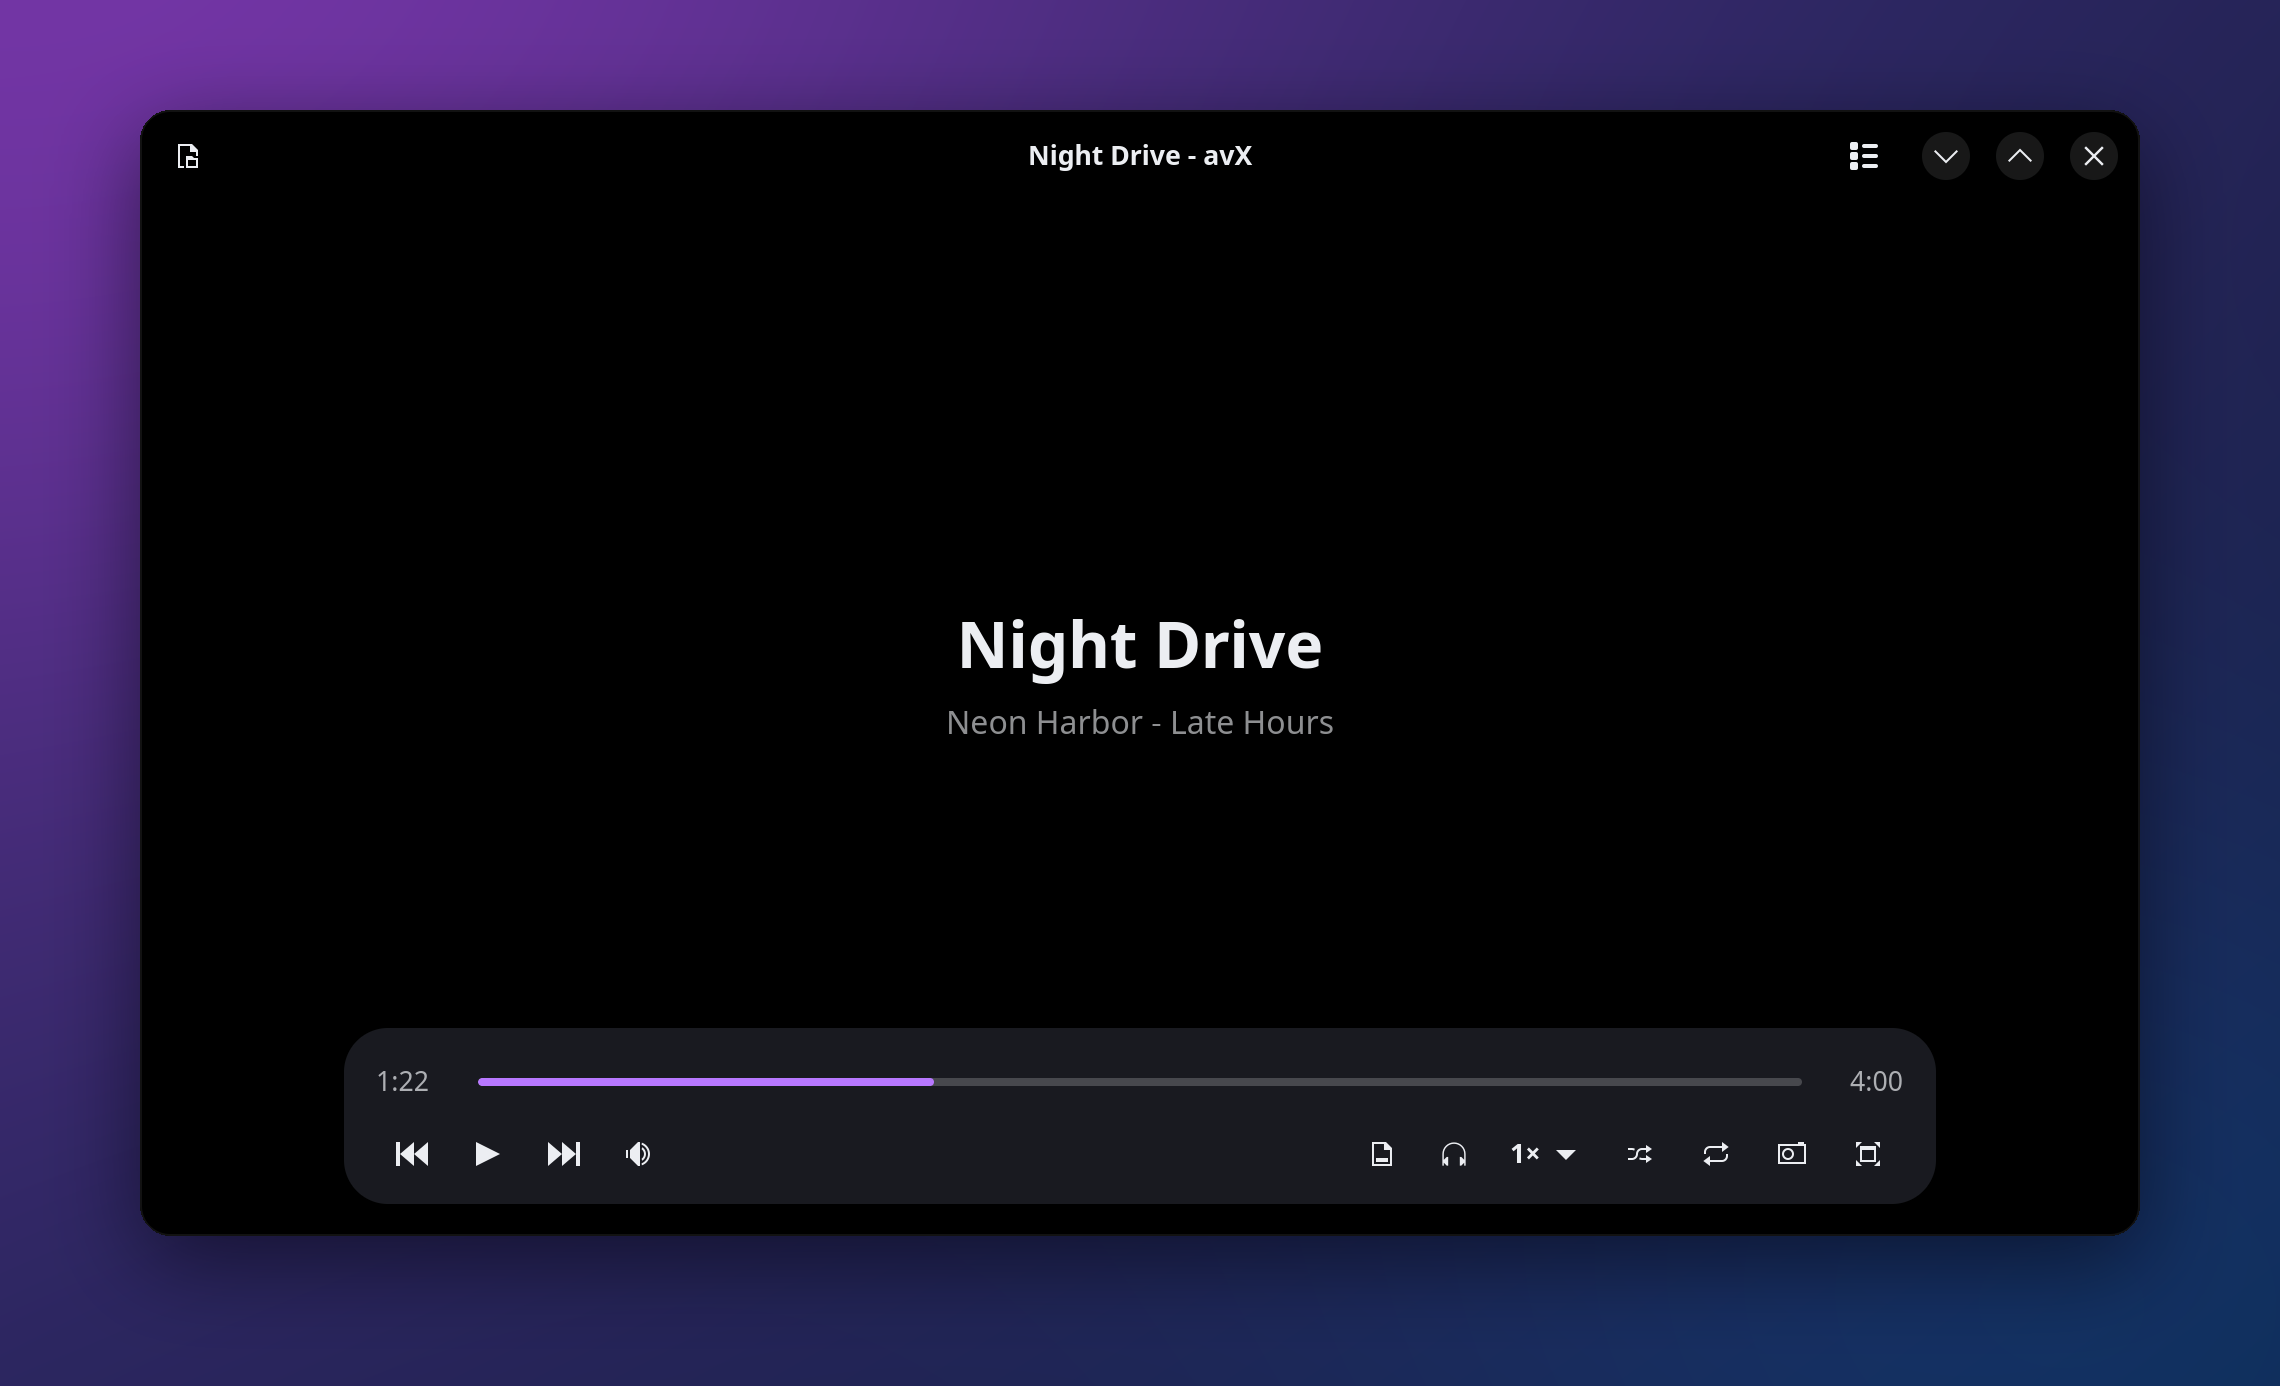
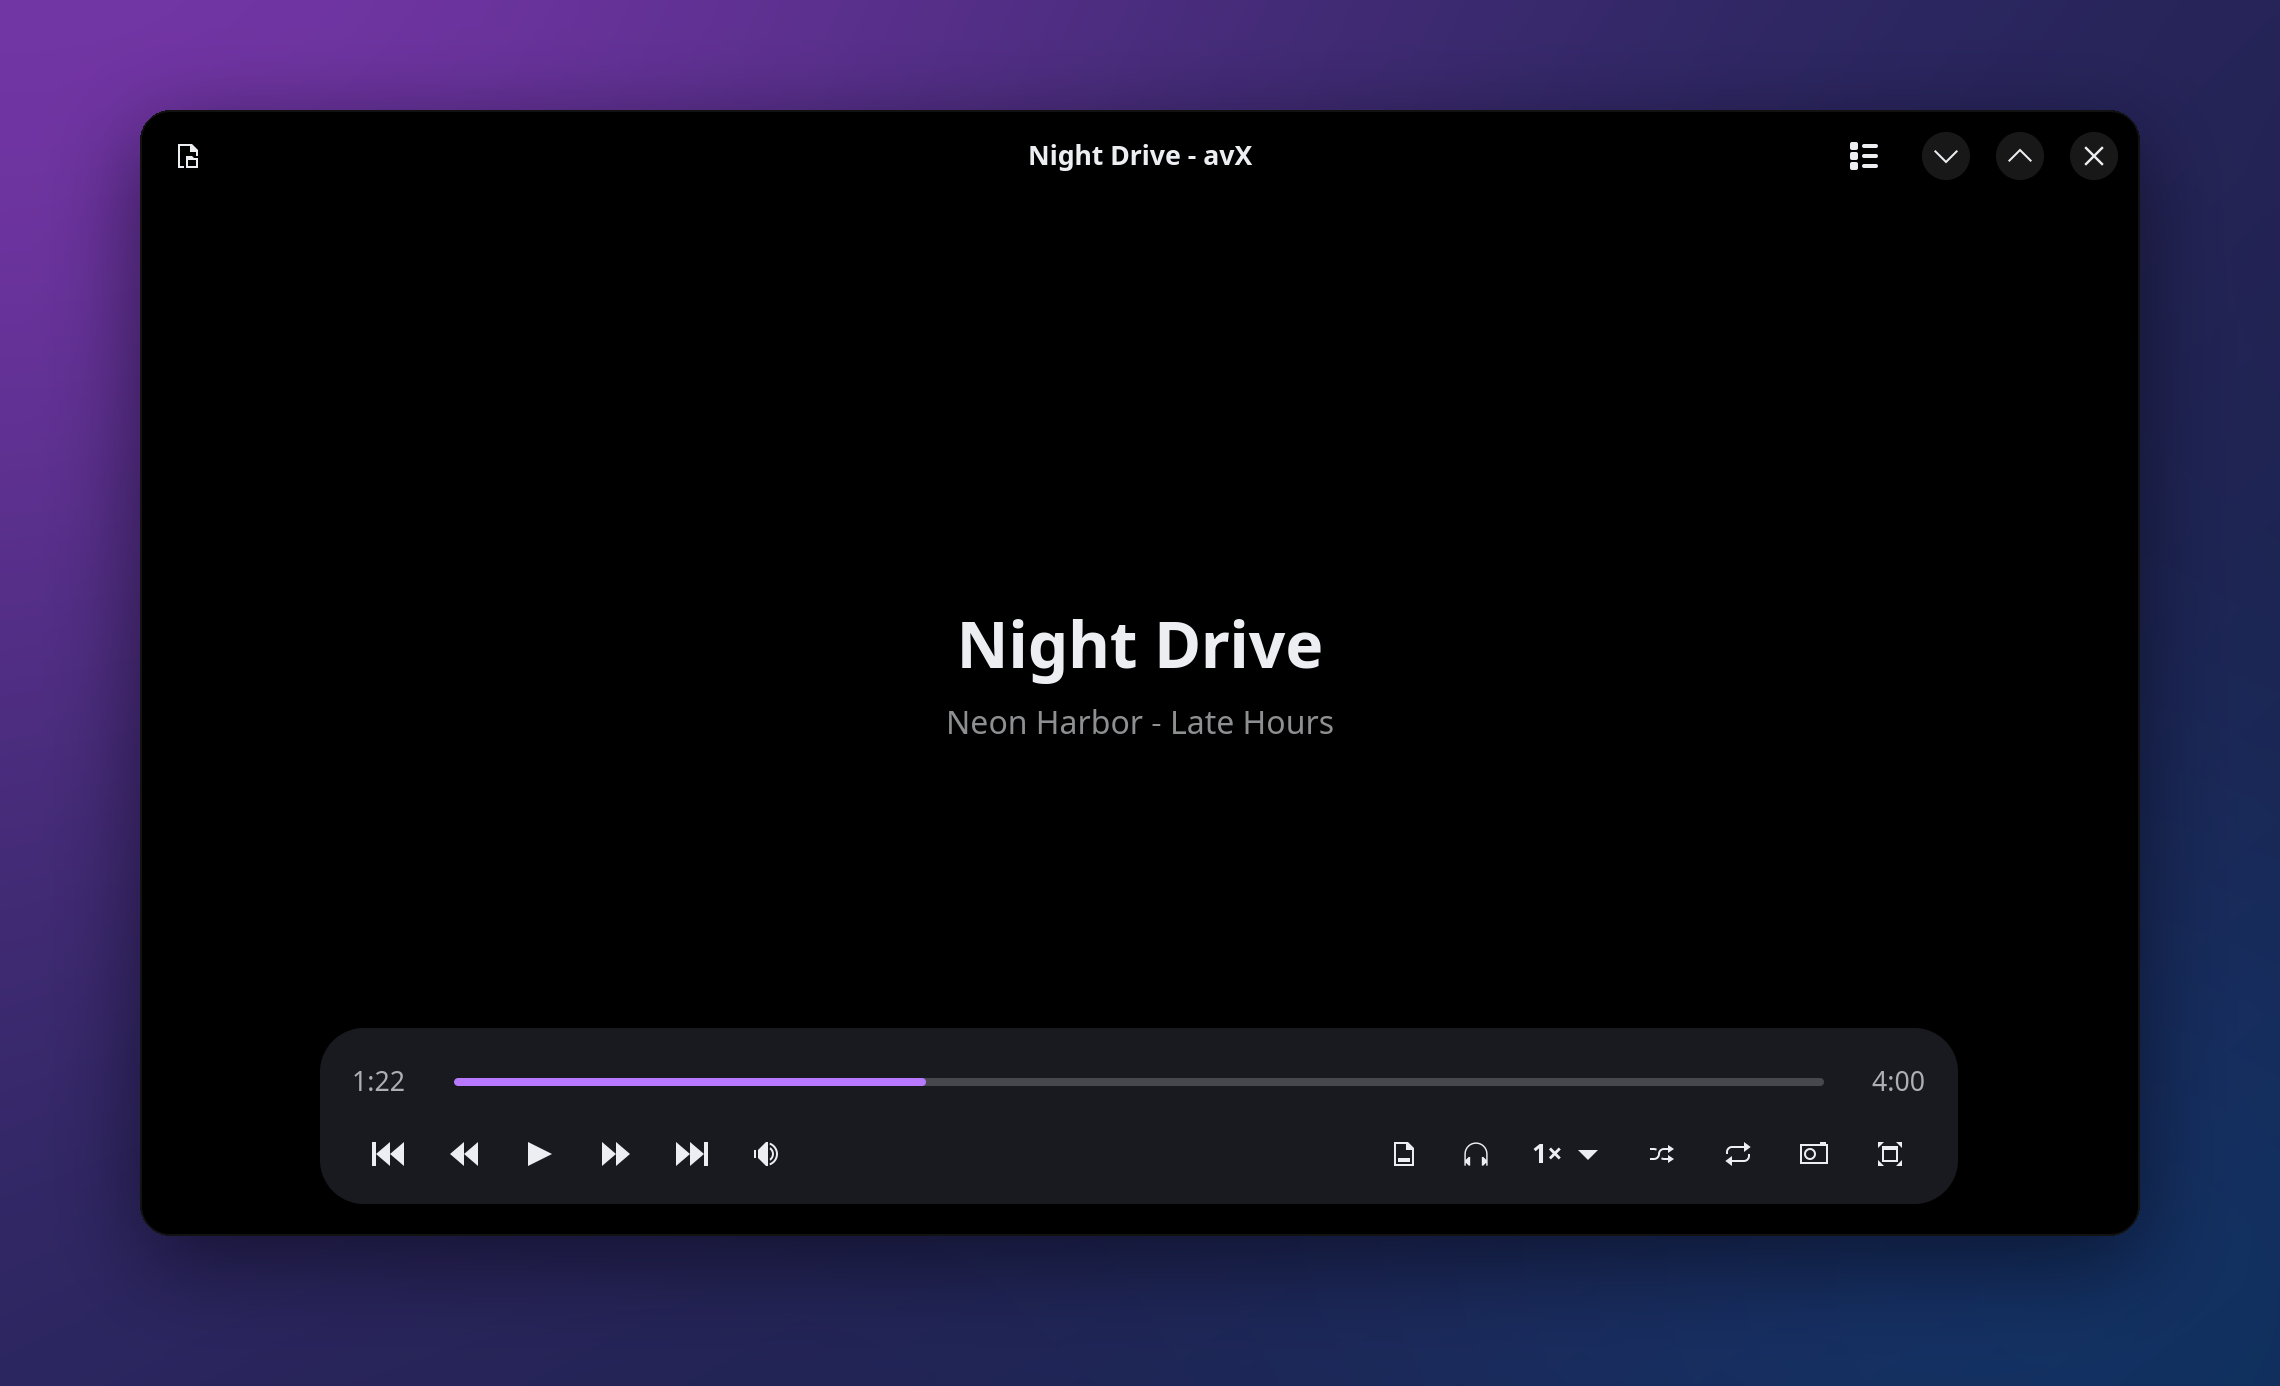
Smoother UI hide | Seek buttons | Fixed button behavior for previous | Replay after single file end

diff --git a/avx.py b/avx.py
@@ -11,6 +11,8 @@ import mpv
 
 HIDE_AFTER_MS = 3000
 SEEK_STEP = 5
+RESTART_AFTER = 3  # seconds into a track after which Previous restarts it instead of going back
+FADE_MS = 450       # keep in step with the CSS transition below
 HERE = os.path.dirname(os.path.abspath(__file__))
 APP_ID = "io.github.avx"
 SUB_EXT = {".srt", ".ass", ".ssa", ".vtt", ".sub"}
@@ -36,6 +38,8 @@ progressbar.hairline trough { min-height: 2px; background: alpha(white, .15); bo
 progressbar.hairline progress { min-height: 2px; background: #b878ff; border-radius: 0; }
 .scrim { background: linear-gradient(alpha(black, .7), transparent); }
 .scrim headerbar { background: none; box-shadow: none; color: #eceef2; }
+.fade { transition: opacity 120ms ease-out; }
+.fade.gone { opacity: 0; transition: opacity 450ms ease-in-out; }
 .stage { background: black; }
 .hint-title { font-size: 24pt; font-weight: 700; color: #eceef2; }
 .hint-sub { font-size: 12pt; color: alpha(#eceef2, .6); }
@@ -85,6 +89,7 @@ class Player(Adw.ApplicationWindow):
         self.gl = _gl_loader()
         self.seeking = False  # guards the scale while we move it programmatically
         self.hide_id = 0
+        self.settle_id = 0
         self.last_ptr = None
         self.repeat = 0
         self.shuffled = False
@@ -117,7 +122,7 @@ class Player(Adw.ApplicationWindow):
                                           css_classes=["flat"], focus_on_click=False)
         self.plist_btn.connect("toggled", lambda b: self.panel.set_reveal_child(b.get_active()))
         header.pack_end(self.plist_btn)
-        self.top = Gtk.Box(css_classes=["scrim"], valign=Gtk.Align.START)
+        self.top = Gtk.Box(css_classes=["scrim", "fade"], valign=Gtk.Align.START)
         self.top.append(header)
         header.set_hexpand(True)
 
@@ -136,8 +141,10 @@ class Player(Adw.ApplicationWindow):
         self.vol = Gtk.VolumeButton(value=1.0, focus_on_click=False)
         self.vol.connect("value-changed", lambda b, v: setattr(self.mpv, "volume", v * 100))
         left = Gtk.Box(spacing=2)
-        for w in (icon_button("media-skip-backward-symbolic", "Previous (<)", lambda: self.step(-1)),
+        for w in (icon_button("media-skip-backward-symbolic", "Previous: restart, then previous track (<)", self.previous),
+                  icon_button("media-seek-backward-symbolic", f"Back {SEEK_STEP}s (Left)", lambda: self.seek_by(-SEEK_STEP)),
                   self.play_btn,
+                  icon_button("media-seek-forward-symbolic", f"Forward {SEEK_STEP}s (Right)", lambda: self.seek_by(SEEK_STEP)),
                   icon_button("media-skip-forward-symbolic", "Next (>)", lambda: self.step(1)),
                   self.vol):
             left.append(w)
@@ -158,10 +165,10 @@ class Player(Adw.ApplicationWindow):
         dock = Gtk.Box(orientation=Gtk.Orientation.VERTICAL, spacing=2, css_classes=["dock"])
         dock.append(row1)
         dock.append(row2)
-        self.dock = Adw.Clamp(child=dock, maximum_size=900, valign=Gtk.Align.END,
+        self.dock = Adw.Clamp(child=dock, maximum_size=900, valign=Gtk.Align.END, css_classes=["fade"],
                               margin_start=16, margin_end=16, margin_bottom=16)
-        self.hairline = Gtk.ProgressBar(css_classes=["hairline"], valign=Gtk.Align.END, can_target=False,
-                                        visible=False)
+        self.hairline = Gtk.ProgressBar(css_classes=["hairline", "fade", "gone"], valign=Gtk.Align.END,
+                                        can_target=False)
 
         # --- playlist panel
         self.plist = Gtk.ListBox(css_classes=["navigation-sidebar"])
@@ -268,11 +275,32 @@ class Player(Adw.ApplicationWindow):
             return False
 
     def toggle_pause(self):
-        if not self.mpv.idle_active:
-            self.mpv.pause = not self.mpv.pause
+        m = self.mpv
+        if m.idle_active:
+            return
+        if m.eof_reached:  # keep-open parks us on the last frame when the final track ends: play it again
+            self.cmd("seek", 0, "absolute")
+            m.pause = False
+        else:
+            m.pause = not m.pause
+
+    def seek_by(self, seconds):
+        # "+exact": by default mpv snaps relative seeks to the nearest keyframe, which can be many seconds away
+        self.cmd("seek", seconds, "relative+exact")
 
     def step(self, n):
         self.cmd("playlist-next" if n > 0 else "playlist-prev")
+
+    def previous(self):
+        """Like most players: a few seconds in, Previous restarts the track; click again to go back one."""
+        m = self.mpv
+        if m.idle_active:
+            return
+        first = (m.playlist_pos or 0) <= 0 and self.repeat != 2  # nothing before it unless the playlist loops
+        if first or (m.time_pos or 0) > RESTART_AFTER:
+            self.cmd("seek", 0, "absolute")
+        else:
+            self.cmd("playlist-prev")
 
     def cycle_repeat(self):
         self.repeat = (self.repeat + 1) % 3
@@ -482,9 +510,13 @@ class Player(Adw.ApplicationWindow):
         self.reveal()
 
     def reveal(self):
-        self.top.set_visible(True)
-        self.dock.set_visible(True)
-        self.hairline.set_visible(False)
+        for w in (self.top, self.dock):
+            w.remove_css_class("gone")  # fades in (CSS transition)
+            w.set_can_target(True)
+        self.hairline.add_css_class("gone")
+        if self.settle_id:
+            GLib.source_remove(self.settle_id)
+            self.settle_id = 0
         # lift subtitles clear of the dock (mpv measures this margin against a 720px-high window)
         self.mpv.sub_margin_y = int(((self.dock.get_height() or 90) + 32) * 720 / max(self.area.get_height(), 1))
         self.set_cursor(None)
@@ -496,11 +528,17 @@ class Player(Adw.ApplicationWindow):
         self.hide_id = 0
         busy = any(b.get_active() for b in self.menu_btns) or self.vol.get_popup().get_visible()
         if not (self.mpv.pause or self.mpv.idle_active or busy):
-            self.top.set_visible(False)
-            self.dock.set_visible(False)
-            self.mpv.sub_margin_y = 22
-            self.hairline.set_visible(True)  # the one thing left on screen: where you are in the file
+            for w in (self.top, self.dock):
+                w.add_css_class("gone")  # fades out; faded controls must not eat clicks meant for the video
+                w.set_can_target(False)
+            self.hairline.remove_css_class("gone")  # the one thing left on screen: where you are in the file
             self.set_cursor(Gdk.Cursor.new_from_name("none"))
+            self.settle_id = GLib.timeout_add(FADE_MS, self.settle)
+        return False
+
+    def settle(self):
+        self.settle_id = 0
+        self.mpv.sub_margin_y = 22  # subtitles drop back down once the dock has finished fading
         return False
 
     def on_key(self, _c, keyval, _code, state):
@@ -514,9 +552,9 @@ class Player(Adw.ApplicationWindow):
         elif name == "space":
             self.toggle_pause()
         elif name == "Left":
-            m.seek(-SEEK_STEP, "relative")
+            self.seek_by(-SEEK_STEP)
         elif name == "Right":
-            m.seek(SEEK_STEP, "relative")
+            self.seek_by(SEEK_STEP)
         elif name == "Up":
             self.nudge_volume(0.05)
         elif name == "Down":
@@ -531,7 +569,7 @@ class Player(Adw.ApplicationWindow):
         elif name == "greater":
             self.step(1)
         elif name == "less":
-            self.step(-1)
+            self.previous()
         elif name == "Page_Down":
             self.cmd("add", "chapter", 1)
         elif name == "Page_Up":
@@ -561,10 +599,10 @@ class Player(Adw.ApplicationWindow):
 
     def on_close(self, *_):
         # stop our timers first: they poll mpv, which is about to be shut down
-        for src in (self.tick_id, self.hide_id):
+        for src in (self.tick_id, self.hide_id, self.settle_id):
             if src:
                 GLib.source_remove(src)
-        self.tick_id = self.hide_id = 0
+        self.tick_id = self.hide_id = self.settle_id = 0
         if self.ctx:
             self.area.make_current()
             self.ctx.free()
